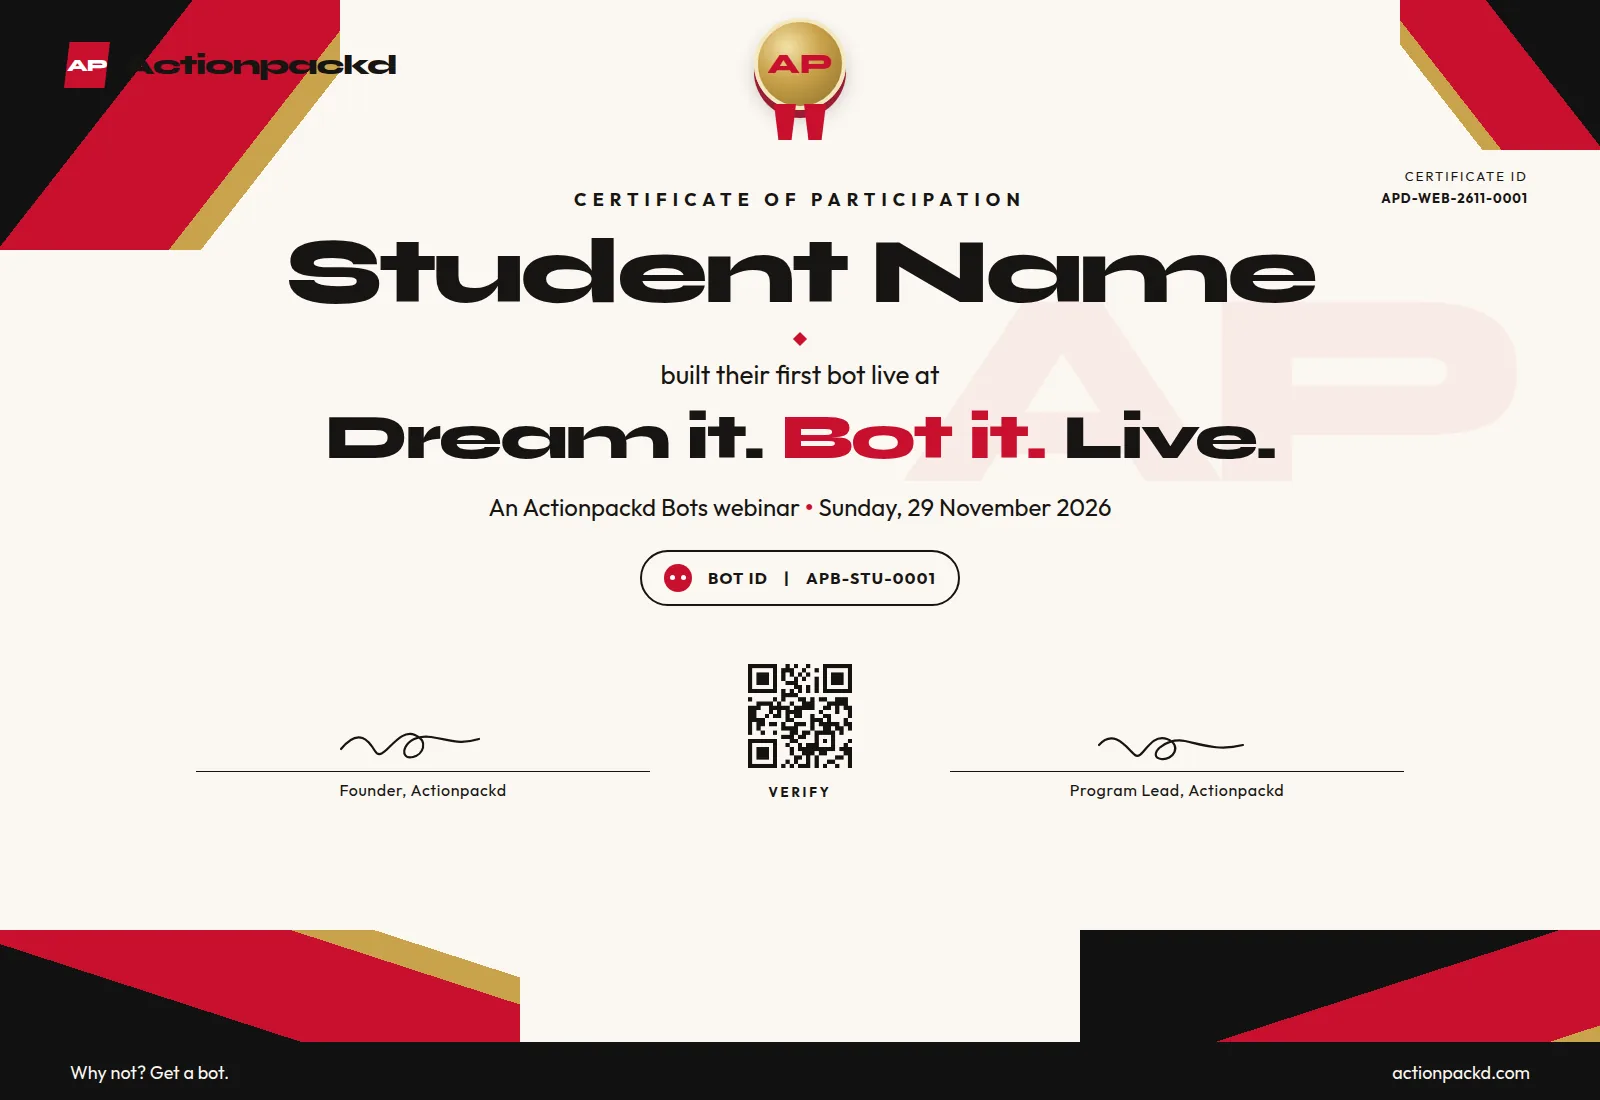
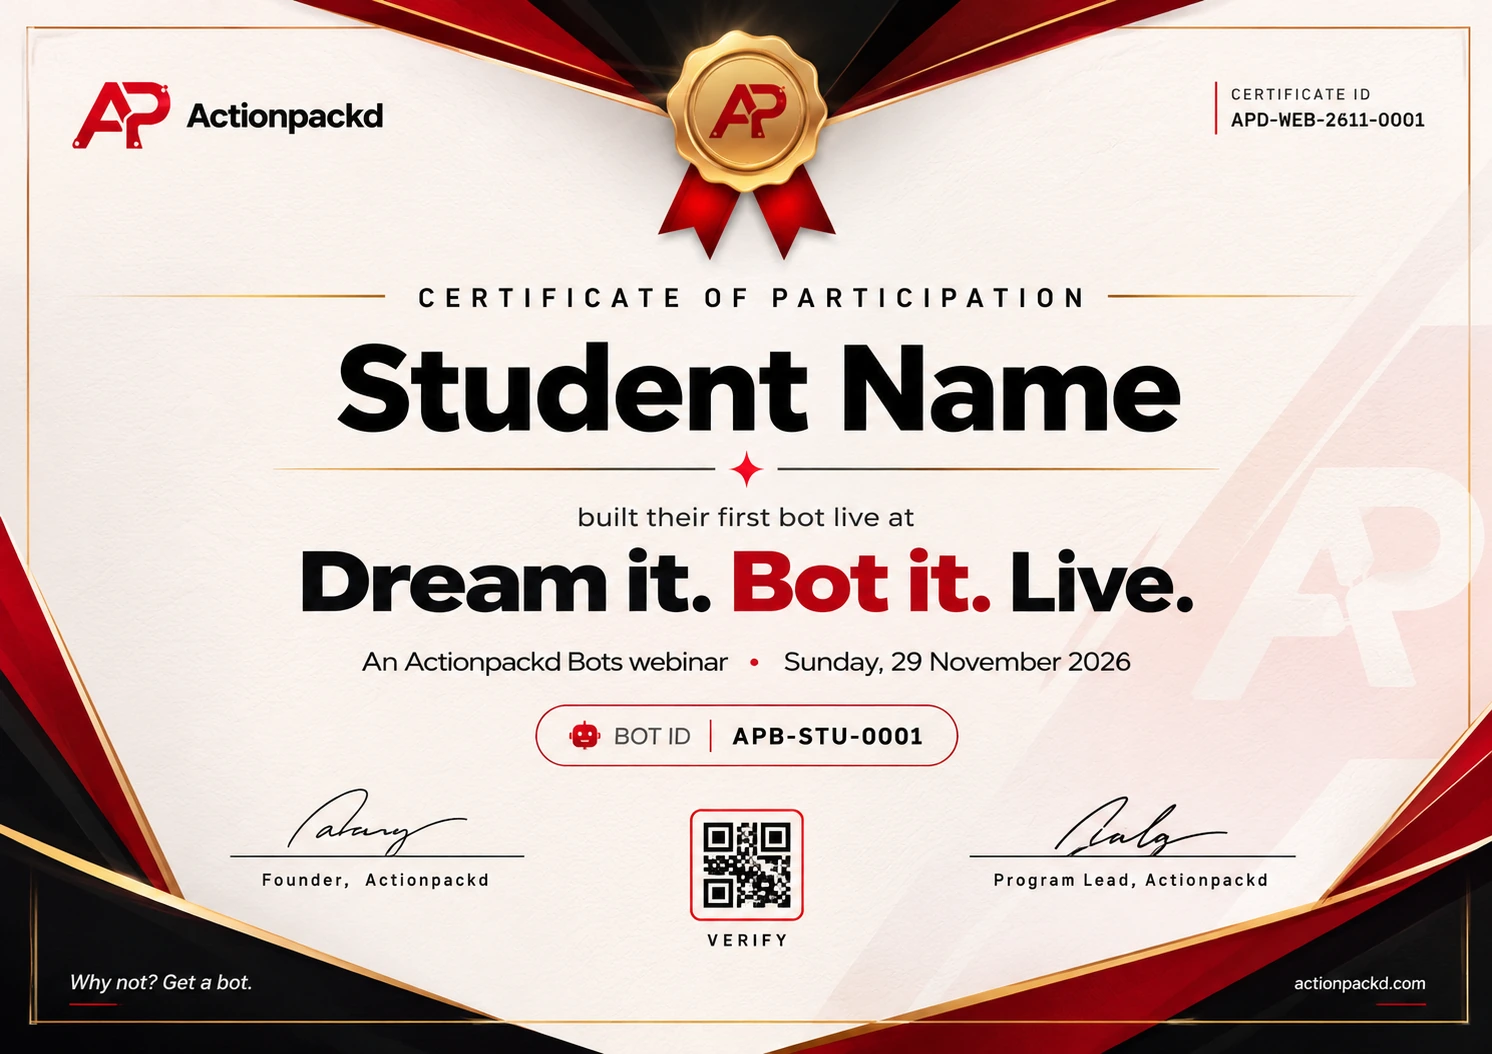
Use the approved certificate image on the webinar page.
Replace the drawn sheet with a WebP of the supplied certificate.

diff --git a/webinar/src/app/page.tsx b/webinar/src/app/page.tsx
@@ -109,8 +109,8 @@ export default function Home() {
               <img
                 src="/certificate.webp"
                 alt="Sample certificate of participation for Dream it. Bot it. Live."
-                width={1600}
-                height={1100}
+                width={1492}
+                height={1054}
                 loading="lazy"
                 decoding="async"
               />
